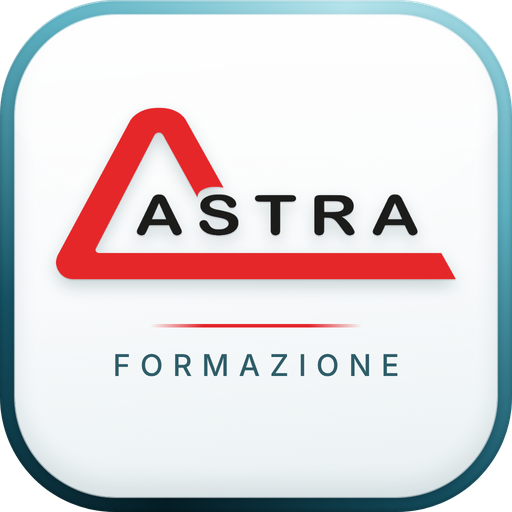
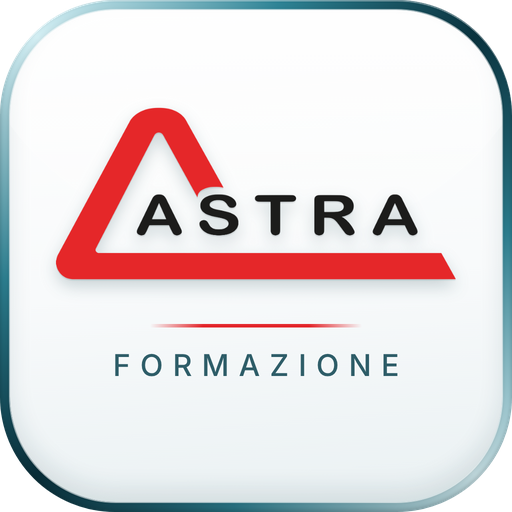
Icona app ritoccata
Claude-Session: https://claude.ai/code/session_01GZ9H1D3qFR8bz622oAwBr9

Changed region(s): [[0.0, 0.0, 1.0, 1.0]]

diff --git a/index.html b/index.html
@@ -18,9 +18,9 @@
 <meta property="og:description" content="Corsi di sicurezza sul lavoro, ambiente, energia e HACCP in aula, videoconferenza ed e-learning.">
 <meta property="og:type" content="website">
 <meta property="og:locale" content="it_IT">
-<link rel="icon" href="app/favicon-64.png?v=3" type="image/png">
+<link rel="icon" href="app/favicon-64.png?v=4" type="image/png">
 <link rel="manifest" href="manifest.webmanifest">
-<link rel="apple-touch-icon" href="app/apple-touch-icon.png?v=3">
+<link rel="apple-touch-icon" href="app/apple-touch-icon.png?v=4">
 <meta name="apple-mobile-web-app-capable" content="yes">
 <meta name="mobile-web-app-capable" content="yes">
 <meta name="apple-mobile-web-app-status-bar-style" content="default">
@@ -147,7 +147,7 @@
 </nav>
 
 <div class="installa" id="installa" hidden role="dialog" aria-labelledby="inst-t">
-  <img src="app/icon-192.png?v=3" alt="" width="52" height="52">
+  <img src="app/icon-192.png?v=4" alt="" width="52" height="52">
   <div><b id="inst-t">App ASTRA Formazione</b><span id="inst-d">Installare l'app sulla schermata Home per un accesso rapido ai corsi.</span></div>
   <button class="btn btn-rosso btn-s" id="inst-ok" type="button">Installa</button>
   <button class="inst-x" id="inst-x" type="button" aria-label="Chiudi">×</button>
@@ -155,7 +155,7 @@
 
 <div class="guida" id="guida" hidden role="dialog" aria-modal="true" aria-labelledby="guida-t">
   <button class="guida-x" id="guida-x" type="button" aria-label="Chiudi">×</button>
-  <img src="app/icon-192.png?v=3" alt="" width="84" height="84" class="guida-ico">
+  <img src="app/icon-192.png?v=4" alt="" width="84" height="84" class="guida-ico">
   <h2 id="guida-t">Installa l'app ASTRA</h2>
   <ol id="guida-passi"></ol>
   <div class="guida-freccia" id="guida-freccia" aria-hidden="true"><svg viewBox="0 0 24 24" fill="none" stroke="currentColor" stroke-width="2.6" stroke-linecap="round" stroke-linejoin="round"><path d="M12 4v16M5 13l7 7 7-7"/></svg></div>

diff --git a/sw.js b/sw.js
@@ -1,5 +1,5 @@
 /* Service worker ASTRA Formazione – © 2026 dr. Jonathan D'Eugenio */
-const V = 'astra-v15';
+const V = 'astra-v16';
 const BASE = ['./', './index.html', './manifest.webmanifest', './assets/app.css', './assets/app.js', './assets/data.js', './assets/listino.js', './assets/foto.js', './fonts/Inter-400.woff2', './fonts/Inter-600.woff2', './fonts/InterTight-800.woff2',
   './loghi/astra_logo.svg', './loghi/aifos_logo.svg', './loghi/jd_logo_bianco.svg', './app/icon-192.png'];
 self.addEventListener('install', e => { e.waitUntil(caches.open(V).then(c => c.addAll(BASE)).then(() => self.skipWaiting())); });
